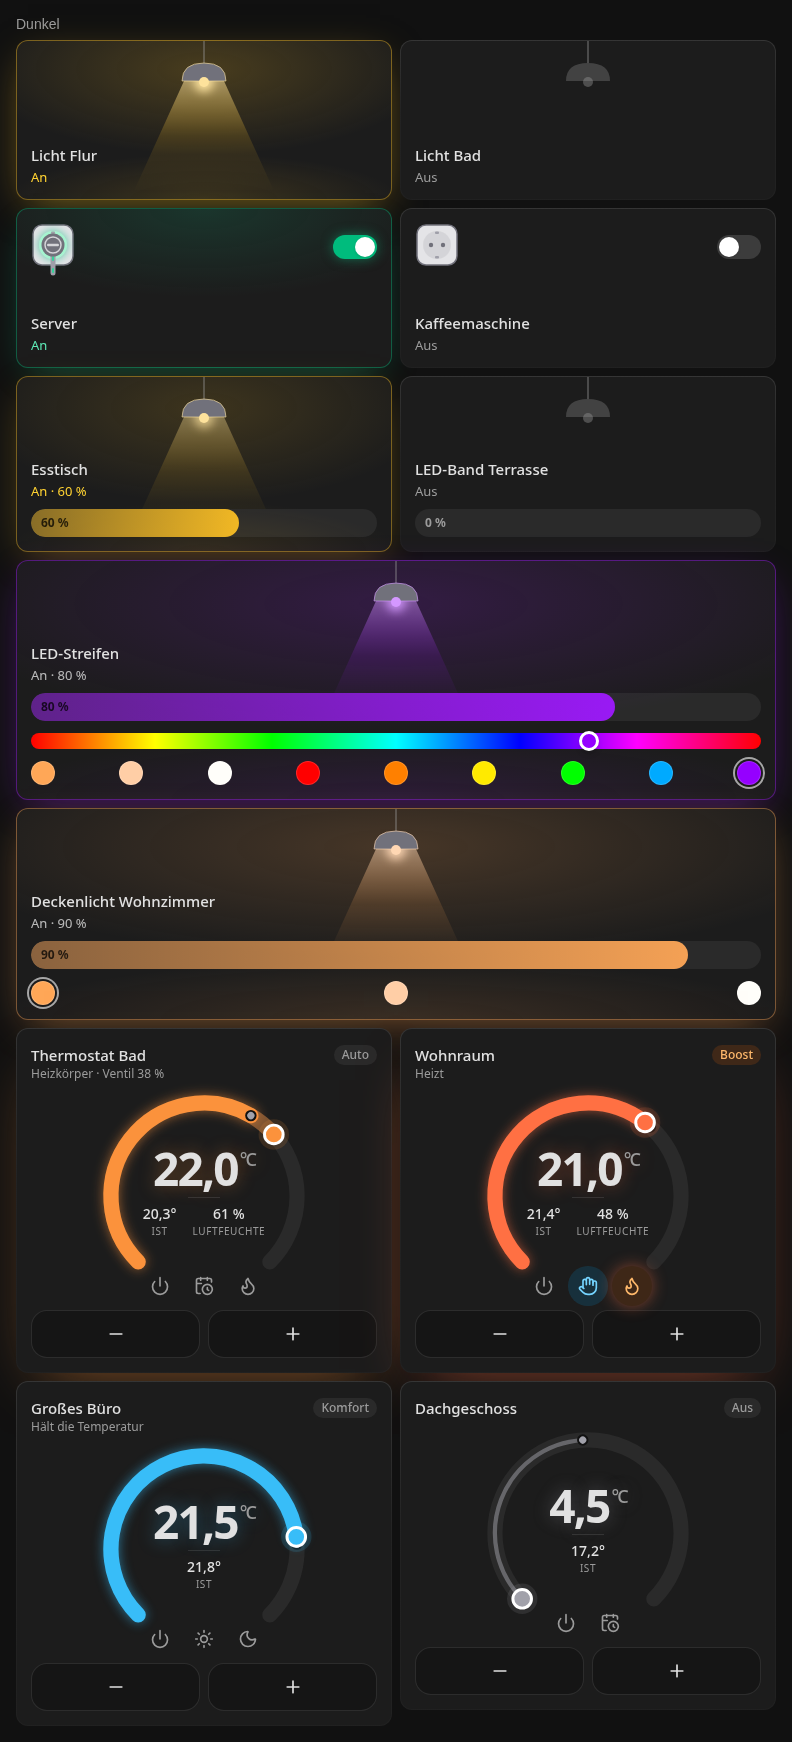
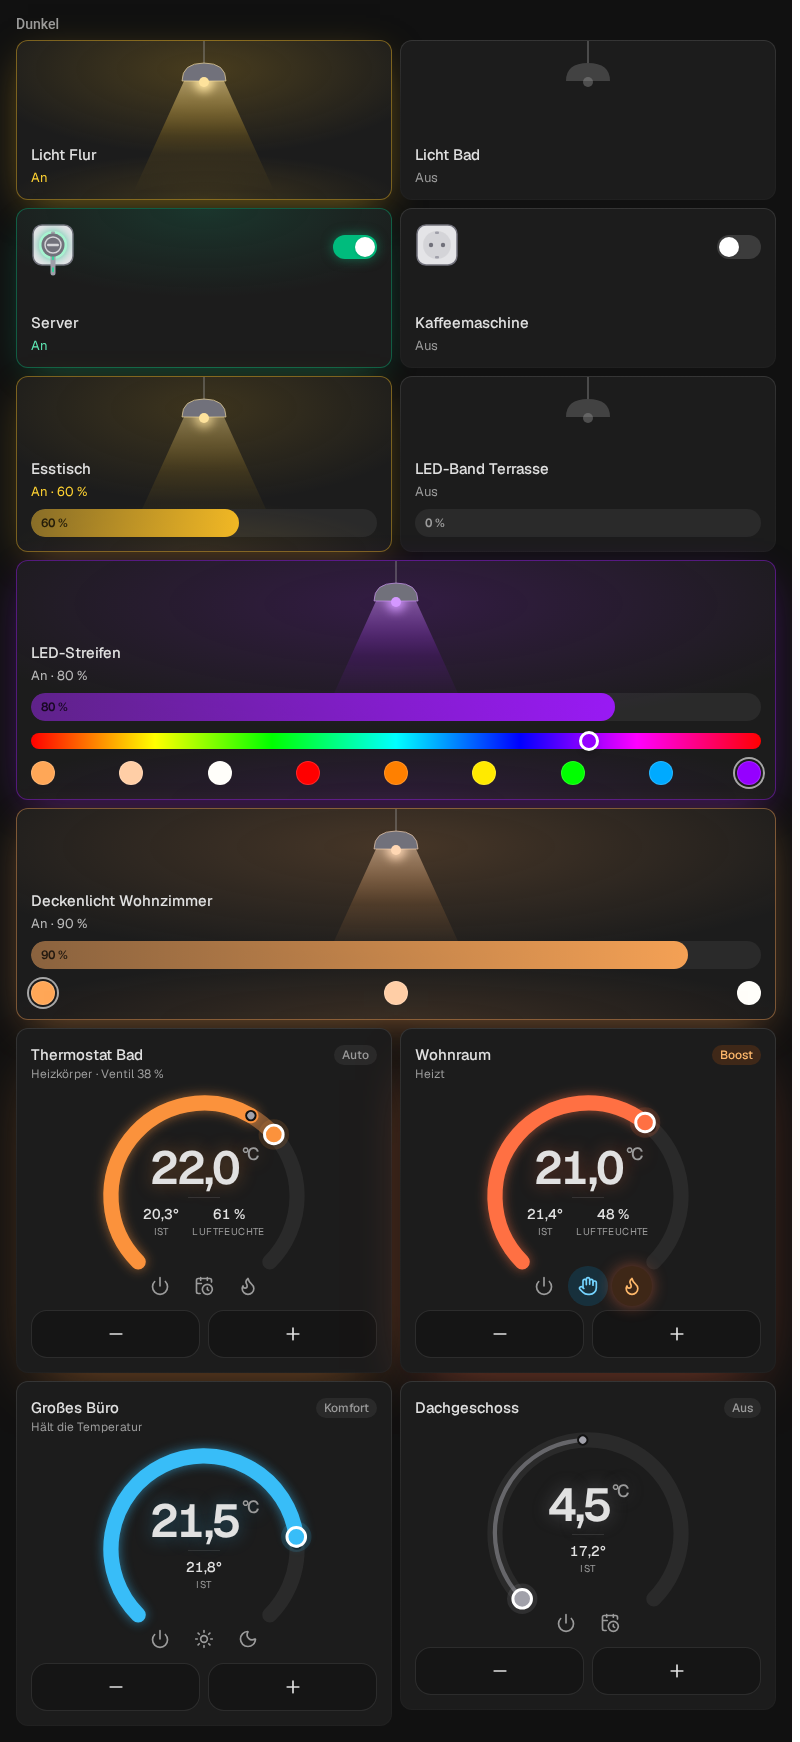
Geist als Schrift, schmale Karten aufgeräumt
Geist (MUIs Schrift, nur latin mit Umlauten, 29 KB) liegt im Bundle und
wird am Dokument registriert, ohne CDN; fehlende Zeichen kommen aus der
Theme-Schrift.

Jede Karte ist ein Container (container-type: inline-size), schmale
Karten ordnen sich um: die Mitte des Thermostats skaliert mit dem
Drehrad (cqw) und bleibt im Bogen, das Bild der Fußbodenheizung wird
kleiner, Zusatzwerte von Raumklima und Messwert stehen untereinander,
Ventiltasten ohne Icons. Rollladen jetzt halbe Breite wie in MUI, breit
gestellt mit größerem Fenster und Tasten bis 180 px.

Claude-Session: https://claude.ai/code/session_018DKVWjS54czpzxqzPJV9g7

diff --git a/src/cards/thermostat/TemperatureDisplay.tsx b/src/cards/thermostat/TemperatureDisplay.tsx
@@ -36,7 +36,8 @@ export const TemperatureDisplay = ({
   const effects = useEffects();
   const changes = useChangeCount(localTarget);
   return (
-    <div className="pointer-events-none absolute inset-x-0 top-[17%] flex flex-col items-center">
+    // Sized by the dial (cqw: % of its width), so it stays inside the arc on a narrow card
+    <div className="pointer-events-none absolute inset-x-[15%] top-[17%] flex flex-col items-center">
       {/* Only while a window is open; the space stays, so nothing jumps */}
       {windowOpen ? (
         <AppWindowIcon
@@ -50,24 +51,24 @@ export const TemperatureDisplay = ({
       <div
         key={effects.on ? changes % 2 : 0}
         className={cn(
-          'mt-0.5 text-[46px] leading-none font-semibold tracking-[-0.04em] tabular-nums',
+          'mt-0.5 text-[clamp(30px,21cqw,46px)] leading-none font-semibold tracking-[-0.04em] tabular-nums',
           effects.on && changes > 0 && (changes % 2 ? 'fx-rise-a' : 'fx-rise-b'),
         )}
         style={effects.on ? { textShadow: `0 0 ${18 * effects.k}px ${color}59` } : undefined}
       >
         {formatTemperature(localTarget)}
-        <span className="ml-0.5 align-top text-lg font-medium text-muted-foreground">°C</span>
+        <span className="ml-0.5 align-top text-[clamp(13px,8cqw,18px)] font-medium text-muted-foreground">°C</span>
       </div>
       <div className="my-1.5 h-px w-8 bg-border" />
-      <div className="flex gap-4">
-        <div className="flex flex-col items-center">
-          <span className="text-sm font-medium tabular-nums">{formatTemperature(currentTemperature)}°</span>
-          <span className="text-[10px] tracking-[0.06em] text-muted-foreground uppercase">{m.ACTUAL()}</span>
+      <div className="flex max-w-full gap-[clamp(8px,6cqw,16px)]">
+        <div className="flex min-w-0 flex-col items-center">
+          <span className="text-[clamp(12px,6.4cqw,14px)] font-medium tabular-nums">{formatTemperature(currentTemperature)}°</span>
+          <span className="max-w-full truncate text-[clamp(8px,4.5cqw,10px)] tracking-[0.04em] text-muted-foreground uppercase">{m.ACTUAL()}</span>
         </div>
         {humidity !== undefined && humidity > 0 && (
-          <div className="flex flex-col items-center">
-            <span className="text-sm font-medium tabular-nums">{humidity} %</span>
-            <span className="text-[10px] tracking-[0.06em] text-muted-foreground uppercase">{m.HUMIDITY()}</span>
+          <div className="flex min-w-0 flex-col items-center">
+            <span className="text-[clamp(12px,6.4cqw,14px)] font-medium tabular-nums">{humidity} %</span>
+            <span className="max-w-full truncate text-[clamp(8px,4.5cqw,10px)] tracking-[0.04em] text-muted-foreground uppercase">{m.HUMIDITY()}</span>
           </div>
         )}
       </div>

diff --git a/src/cards/shutter/Shutter.tsx b/src/cards/shutter/Shutter.tsx
@@ -94,7 +94,7 @@ export const Shutter = ({
 
   return (
     <Tile status={status}>
-      <div className="flex gap-4 p-4">
+      <div className="flex gap-4 p-4 @max-[280px]:gap-3 @max-[280px]:p-3">
         <div
           ref={ref}
           role="slider"
@@ -110,7 +110,7 @@ export const Shutter = ({
             handlers.onPointerDown(event);
           }}
           onKeyDown={onKeyDown}
-          className="relative min-h-[168px] w-32 shrink-0 self-stretch cursor-ns-resize touch-pan-y overflow-hidden rounded-[10px] border-[3px] border-zinc-400 bg-[linear-gradient(180deg,#bfe3fb_0%,#9fd2f5_55%,#86c3ee_100%)] transition-shadow duration-500 outline-none focus-visible:ring-[3px] focus-visible:ring-ring/50 dark:border-zinc-700 dark:bg-[linear-gradient(180deg,#2a4a6b_0%,#1a3350_55%,#142a40_100%)]"
+          className="relative min-h-[168px] w-32 shrink-0 @max-[280px]:w-28 @min-[420px]:w-40 self-stretch cursor-ns-resize touch-pan-y overflow-hidden rounded-[10px] border-[3px] border-zinc-400 bg-[linear-gradient(180deg,#bfe3fb_0%,#9fd2f5_55%,#86c3ee_100%)] transition-shadow duration-500 outline-none focus-visible:ring-[3px] focus-visible:ring-ring/50 dark:border-zinc-700 dark:bg-[linear-gradient(180deg,#2a4a6b_0%,#1a3350_55%,#142a40_100%)]"
           style={
             effects.on && height > 0
               ? { boxShadow: `0 0 ${28 * effects.k}px -4px rgba(125,211,252,${a(0.35 * open)})` }
@@ -162,7 +162,7 @@ export const Shutter = ({
             {shown} %
           </div>
         </div>
-        <div className="flex min-w-0 flex-1 flex-col justify-between gap-3">
+        <div className="flex min-w-0 flex-1 flex-col justify-between gap-3 @min-[420px]:max-w-[180px]">
           <div className="min-w-0">
             {/* A button centers its content, so the clamp sits in a span */}
             <button type="button" onClick={onName} className="block w-full text-left" title={name}>
@@ -171,7 +171,7 @@ export const Shutter = ({
             <div className="mt-0.5 text-[13px] text-muted-foreground">{label}</div>
             {slats !== null && (
               <details className="group mt-2">
-                <summary className="w-fit cursor-pointer list-none rounded-full border px-2.5 py-0.5 text-xs text-muted-foreground hover:bg-accent [&::-webkit-details-marker]:hidden">
+                <summary className="w-fit cursor-pointer list-none rounded-full border px-2.5 py-0.5 text-xs whitespace-nowrap text-muted-foreground hover:bg-accent [&::-webkit-details-marker]:hidden">
                   {m.SLATS()} · {slats} %
                 </summary>
                 <div className="mt-2">

diff --git a/src/cards/floor/FloorCircuit.tsx b/src/cards/floor/FloorCircuit.tsx
@@ -37,7 +37,7 @@ const FloorPicture = ({ value, label }: { value: number; label: string }) => {
       aria-valuemin={0}
       aria-valuemax={100}
       aria-valuenow={value}
-      className="relative h-[76px] w-[120px] shrink-0 overflow-hidden rounded-[10px] border-[3px] border-zinc-300 bg-[repeating-linear-gradient(135deg,#e4e4e7_0_6px,#dcdce0_6px_12px)] dark:border-zinc-700 dark:bg-[repeating-linear-gradient(135deg,#27272a_0_6px,#232326_6px_12px)]"
+      className="relative h-[76px] w-[120px] shrink-0 overflow-hidden @max-[300px]:h-[54px] @max-[300px]:w-[84px] rounded-[10px] border-[3px] border-zinc-300 bg-[repeating-linear-gradient(135deg,#e4e4e7_0_6px,#dcdce0_6px_12px)] dark:border-zinc-700 dark:bg-[repeating-linear-gradient(135deg,#27272a_0_6px,#232326_6px_12px)]"
     >
       {/* The screed warming up */}
       <div
@@ -125,10 +125,10 @@ export const FloorCircuit = ({ name, value, status: tileStatus, onName }: FloorC
 
   return (
     <Tile status={tileStatus}>
-      <div className="flex items-center gap-3.5 p-3.5">
+      <div className="flex items-center gap-3.5 p-3.5 @max-[300px]:gap-2.5 @max-[300px]:p-3">
         <FloorPicture value={value} label={`${m.VALVE_OPENING()} ${name}`} />
         <button type="button" onClick={onName} className="flex min-w-0 flex-col gap-0.5 text-left">
-          <span className="line-clamp-2 text-[15px] leading-snug font-medium" title={name}>
+          <span className="line-clamp-2 text-[15px] leading-snug font-medium break-words" title={name}>
             {name}
           </span>
           <span

diff --git a/src/ha/styles.ts b/src/ha/styles.ts
@@ -1,4 +1,7 @@
 import css from '../styles.css?inline';
+// MUI's font: Geist, the latin glyphs (with umlauts), inside the bundle so
+// HACS installs one file and nothing is fetched from a CDN
+import geist from '@fontsource-variable/geist/files/geist-latin-wght-normal.woff2?inline';
 
 // Tailwind 4 registers its variables (--tw-shadow, --tw-gradient-from, …)
 // with @property. Inside a shadow root browsers ignore @property, the
@@ -7,7 +10,17 @@ import css from '../styles.css?inline';
 // (they are global anyway), the rest into each card's shadow root.
 const PROPERTY = /@property\s+--[\w-]+\s*\{[^}]*\}/g;
 
-const properties = (css.match(PROPERTY) ?? []).join('\n');
+// Fonts, like @property, only work when declared in the document
+const fontFace = `@font-face {
+  font-family: 'Kachelwerk Geist';
+  font-style: normal;
+  font-display: swap;
+  font-weight: 100 900;
+  src: url(${geist}) format('woff2-variations');
+  unicode-range: U+0000-00FF,U+0131,U+0152-0153,U+02BB-02BC,U+02C6,U+02DA,U+02DC,U+0304,U+0308,U+0329,U+2000-206F,U+20AC,U+2122,U+2191,U+2193,U+2212,U+2215,U+FEFF,U+FFFD;
+}`;
+
+const properties = [fontFace, ...(css.match(PROPERTY) ?? [])].join('\n');
 const scoped = css.replace(PROPERTY, '').replaceAll(':root', ':host');
 
 let sheet: CSSStyleSheet | undefined;

diff --git a/src/cards/valve/Valves.tsx b/src/cards/valve/Valves.tsx
@@ -7,7 +7,7 @@ import GaugeIcon from '~icons/lucide/gauge';
 import WavesIcon from '~icons/lucide/waves';
 import type { TileStatus } from '../../components/Tile';
 import { m } from '../../i18n/messages';
-import { ActuatorTile, button } from './ActuatorTile';
+import { ActuatorTile, button, iconOnly } from './ActuatorTile';
 
 interface Common {
   name: string;
@@ -75,7 +75,7 @@ export const Valve = ({
         {m.CLOSE()}
       </button>
       {onStop && (
-        <button type="button" className={`${button} max-w-12`} onClick={onStop} aria-label={m.BLIND_STOP()}>
+        <button type="button" className={`${button} ${iconOnly} max-w-12`} onClick={onStop} aria-label={m.BLIND_STOP()}>
           <SquareIcon className="fill-current !size-3.5" />
         </button>
       )}

diff --git a/src/cards/valve/ActuatorTile.tsx b/src/cards/valve/ActuatorTile.tsx
@@ -3,7 +3,10 @@ import { Tile, type TileStatus } from '../../components/Tile';
 import { cn } from '../../lib/utils';
 
 export const button =
-  'press flex h-11 flex-1 items-center justify-center gap-1.5 rounded-xl border bg-background/60 text-[13px] font-medium hover:bg-accent disabled:opacity-50 [&_svg]:size-4';
+  'press flex h-11 flex-1 items-center justify-center gap-1.5 rounded-xl border bg-background/60 text-[13px] font-medium hover:bg-accent disabled:opacity-50 [&_svg]:size-4 @max-[300px]:px-1 @max-[300px]:[&_svg]:hidden';
+
+// An icon-only button (stop) keeps its icon on a narrow card
+export const iconOnly = '@max-[300px]:[&_svg]:!block';
 
 // From MUI's WaterControls: a device with a name, a status line and buttons
 // below

diff --git a/src/styles.css b/src/styles.css
@@ -25,6 +25,11 @@
   --color-ring: var(--ring);
 }
 
+/* The card itself: a block, so its width is the grid cell's */
+:host {
+  display: block;
+}
+
 /* HA's theme variables, with MUI's light values as fallback */
 .kw {
   --radius: 0.75rem;
@@ -42,7 +47,10 @@
   --border: var(--divider-color, oklch(0.922 0 0));
   --ring: var(--primary-color, oklch(0.708 0 0));
   color: var(--foreground);
-  font-family: inherit;
+  /* MUI's Geist; the theme's font where a glyph is missing */
+  font-family: 'Kachelwerk Geist', var(--ha-font-family-body, var(--primary-font-family, Roboto)), sans-serif;
+  /* Each tile knows its width: narrow cards rearrange (@container) */
+  container-type: inline-size;
   -webkit-font-smoothing: antialiased;
 }
 

diff --git a/demo/index.html b/demo/index.html
@@ -6,7 +6,7 @@
     <title>Kachelwerk Demo</title>
     <style>
       /* HA's default theme variables, light and dark */
-      body { margin: 0; font-family: Roboto, system-ui, sans-serif; }
+      body { margin: 0; font-family: var(--demo-font, Roboto), Noto, sans-serif; -webkit-font-smoothing: antialiased; }
       .theme { padding: 16px; display: grid; gap: 8px; grid-template-columns: repeat(12, 1fr); max-width: 760px; }
       .theme > * { grid-column: span var(--cols, 12); }
       .light {

diff --git a/src/cards/climate-sensor/ClimateSensor.tsx b/src/cards/climate-sensor/ClimateSensor.tsx
@@ -233,7 +233,7 @@ export const ClimateSensor = ({
             </div>
           )}
         </div>
-        {extras.length > 0 && <div className="grid grid-cols-2 gap-2">{extras}</div>}
+        {extras.length > 0 && <div className="grid grid-cols-2 gap-2 @max-[300px]:grid-cols-1">{extras}</div>}
       </div>
     </Tile>
   );

diff --git a/src/cards/thermostat/Thermostat.tsx b/src/cards/thermostat/Thermostat.tsx
@@ -112,7 +112,7 @@ export const Thermostat = ({
           </span>
         </div>
 
-        <div className="relative aspect-square w-full max-w-[220px]">
+        <div className="@container relative aspect-square w-full max-w-[220px]">
           <ThermostatDial
             range={range}
             label={name}

diff --git a/src/cards/sensor/Measure.tsx b/src/cards/sensor/Measure.tsx
@@ -63,7 +63,7 @@ export const MeasureTile = ({
           </span>
         )}
       </div>
-      {extras.length > 0 && <div className="grid grid-cols-2 gap-2">{extras}</div>}
+      {extras.length > 0 && <div className="grid grid-cols-2 gap-2 @max-[300px]:grid-cols-1">{extras}</div>}
     </div>
   </Tile>
 );

diff --git a/src/main.ts b/src/main.ts
@@ -34,7 +34,7 @@ defineCard<ShutterConfig>({
   description: 'Rollladen als Fenster zum Ziehen, mit Fahrt und Lamellen',
   component: ShutterCard,
   domains: ['cover'],
-  columns: 12,
+  columns: 6,
   schema: shutterSchema,
 });
 
